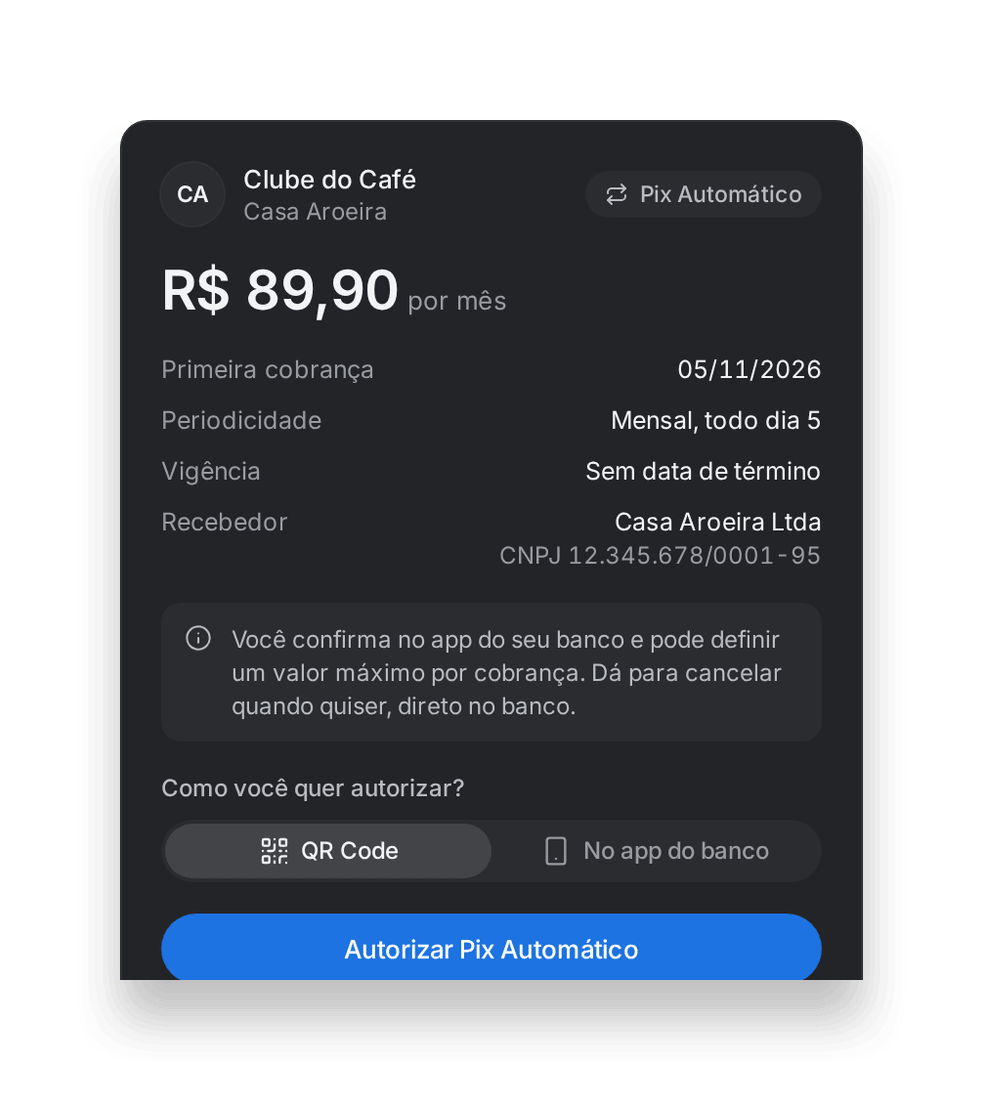
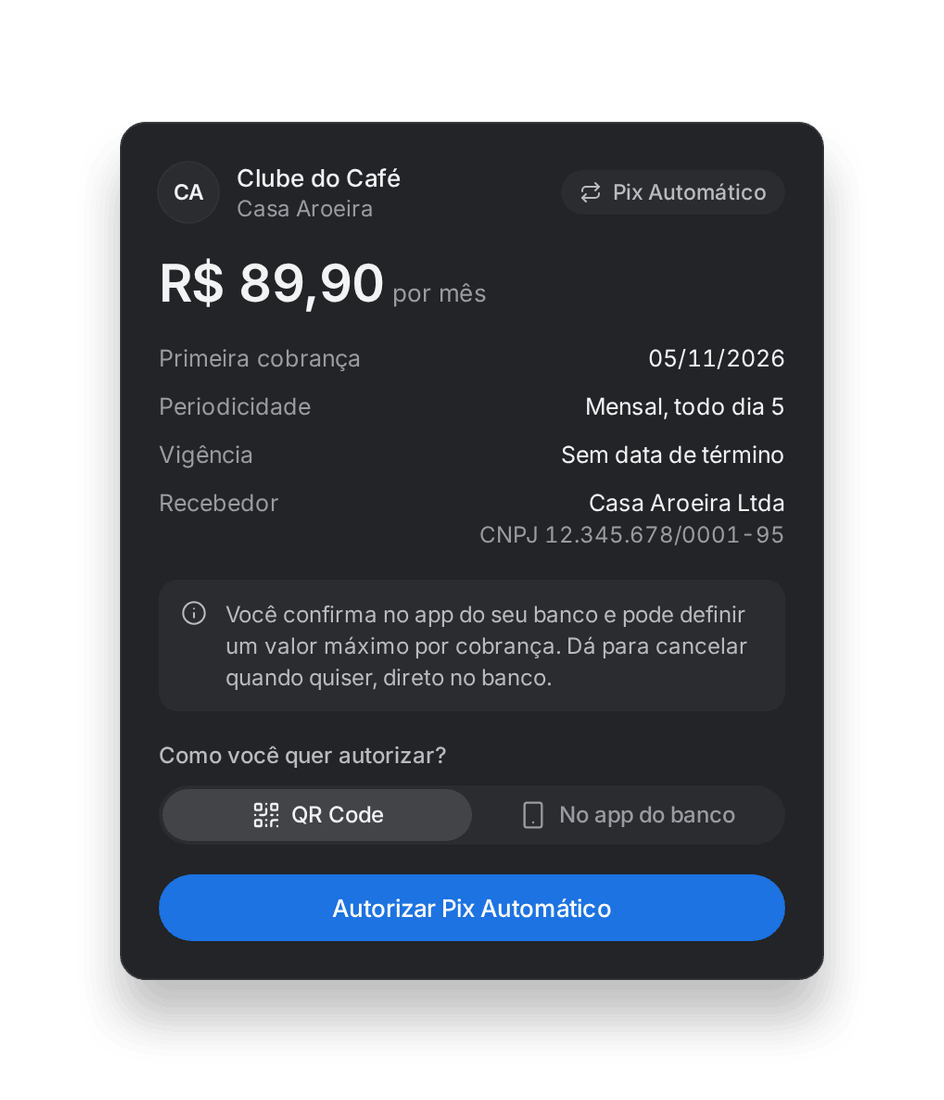
fix(pix-automatico): give the preview canvas room for every state
The tallest state (terms with the chosen bank, 515px) overflowed the shared
496px desktop and 460px mobile canvas, cutting the card on the live page and
in the share image. No per-item canvas height existed, and growing the shared
canvas would change 62/110 items on desktop and every item on mobile, so this
adds an opt-in per-item modifier class (uai-registry-specimen--<id>, unstyled
for every other item) and sizes only Pix Automático: 800px on desktop with the
workspace scrolling to the code panel, 860px below 1180px. The simulator row
is widened to 560px so it no longer wraps over the card. Share images are
recaptured: the terms state now shows the whole card.

diff --git a/src/app/global.css b/src/app/global.css
@@ -1804,6 +1804,21 @@ a {
   touch-action: none;
 }
 
+/* Pix Automático's tallest state (the terms with the chosen bank, a 515px card) needs more
+   than the default canvas. Its canvas keeps that height, and the workspace scrolls to the
+   code panel instead of clipping the card. */
+.uai-bench__workspace:has(.uai-registry-specimen--pix-automatico) {
+  overflow-y: auto;
+}
+
+.uai-bench__canvas:has(.uai-registry-specimen--pix-automatico) {
+  flex: 1 0 auto;
+}
+
+.uai-bench .uai-registry-specimen--pix-automatico {
+  min-height: 800px;
+}
+
 .uai-bench__panel + .uai-bench__panel {
   border-top: 1px solid var(--uai-border);
 }
@@ -2323,6 +2338,10 @@ html[data-uai-resizing="y"] * {
     flex: none;
     height: 460px;
     touch-action: pan-y pinch-zoom;
+  }
+
+  .uai-bench .uai-registry-specimen--pix-automatico {
+    height: 860px;
   }
 
   .uai-bench__dock {

diff --git a/src/components/registry/brazil/preview.tsx b/src/components/registry/brazil/preview.tsx
@@ -51,7 +51,7 @@ export function BrazilPreview({ itemId, selection }: { itemId: string; selection
       <div
         style={{
           width: "100%",
-          maxWidth: itemId === "pix-payment" ? 600 : itemId === "pix-automatico" ? 420 : 400,
+          maxWidth: itemId === "pix-payment" ? 600 : itemId === "pix-automatico" ? 560 : 400,
           minWidth: 0,
           minHeight: itemId === "cep-field" ? 180 : undefined,
           padding: "24px 0",

diff --git a/src/components/registry/registry-preview.tsx b/src/components/registry/registry-preview.tsx
@@ -78,7 +78,10 @@ export function RegistryPreviewCanvas({
   selection: string;
 }) {
   return (
-    <PannableCanvas resetKey={`${itemId}:${selection}`}>
+    <PannableCanvas
+      resetKey={`${itemId}:${selection}`}
+      className={`uai-registry-specimen--${itemId}`}
+    >
       {renderPreview(itemId, selection)}
     </PannableCanvas>
   );
